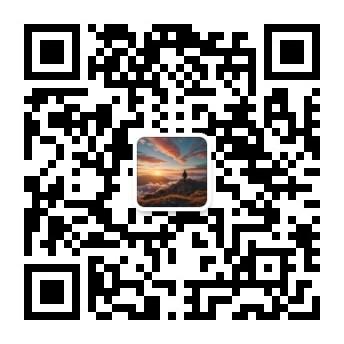
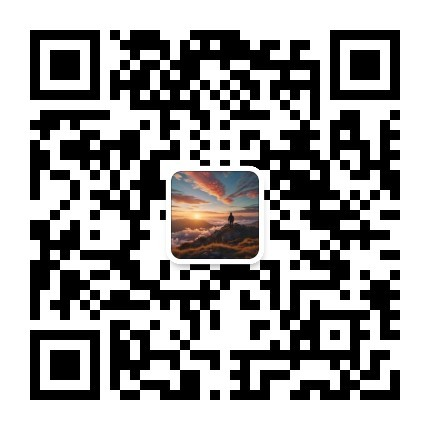
udp(Readme):更新联系方式

Changed region(s): [[0.5233, 0.3779, 0.5814, 0.407]]

diff --git a/README_en.md b/README_en.md
@@ -217,11 +217,10 @@ services:
 | Model Training                     | Train business scenario recognition models                                                        | ¥1000+      | Customized Model Training                  |
 | Other Services                     | Customized development for vertical industry solutions; tailored duration and functional services | Negotiable  | Negotiable                              |
 
-## 📞 Contact Information
+## 📞 Contact Information (Please follow and enter the keyword "Technical Exchange")
 
 <div>
-  <img src=".image/联系方式.jpg" alt="联系方式" width="30%" style="margin-right: 10px">
-  <img src=".image/微信群.jpg" alt="联系方式" width="30%" style="margin-right: 10px">
+  <img src=".image/公众号.jpg" alt="公众号" width="30%">
 </div>
 
 ### 🪐 Knowledge Planet:

diff --git a/README.md b/README.md
@@ -211,11 +211,10 @@ EasyAIoT是一个开源学习项目，与商业行为无关。用户在使用该
 | 模型训练 | 训练业务场景识别模型                 | 1000+元 | 模型定制化训练     |
 | 其他服务 | 垂直领域解决方案定制化开发；定制化时长、功能服务等  | 面议     | 面议          |
 
-## 📞 联系方式
+## 📞 联系方式（请关注后，输入关键字"技术交流"）
 
 <div>
-  <img src=".image/联系方式.jpg" alt="联系方式" width="30%" style="margin-right: 10px">
-  <img src=".image/微信群.jpg" alt="联系方式" width="30%" style="margin-right: 10px">
+  <img src=".image/公众号.jpg" alt="公众号" width="30%">
 </div>
 
 ### 🪐 知识星球：
